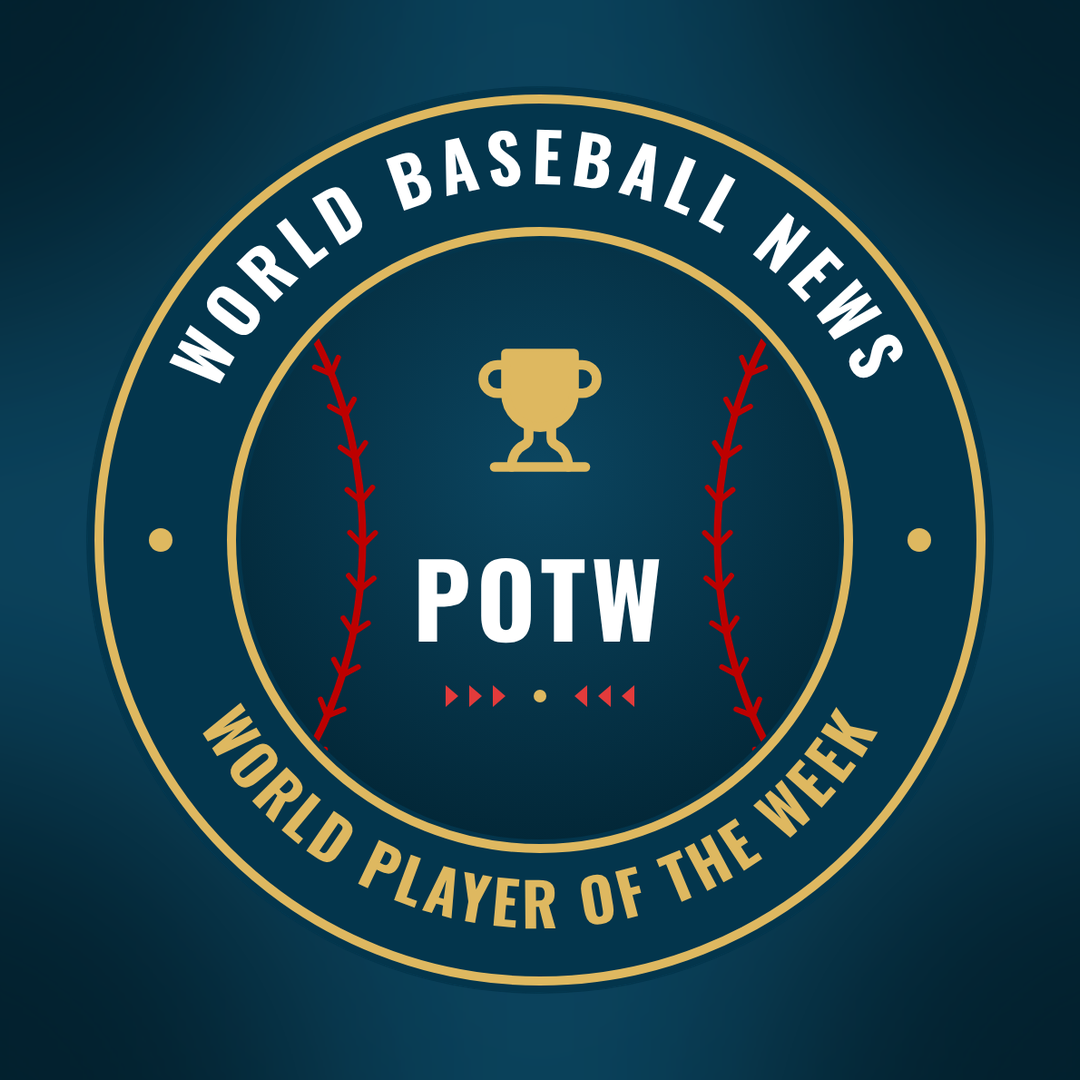
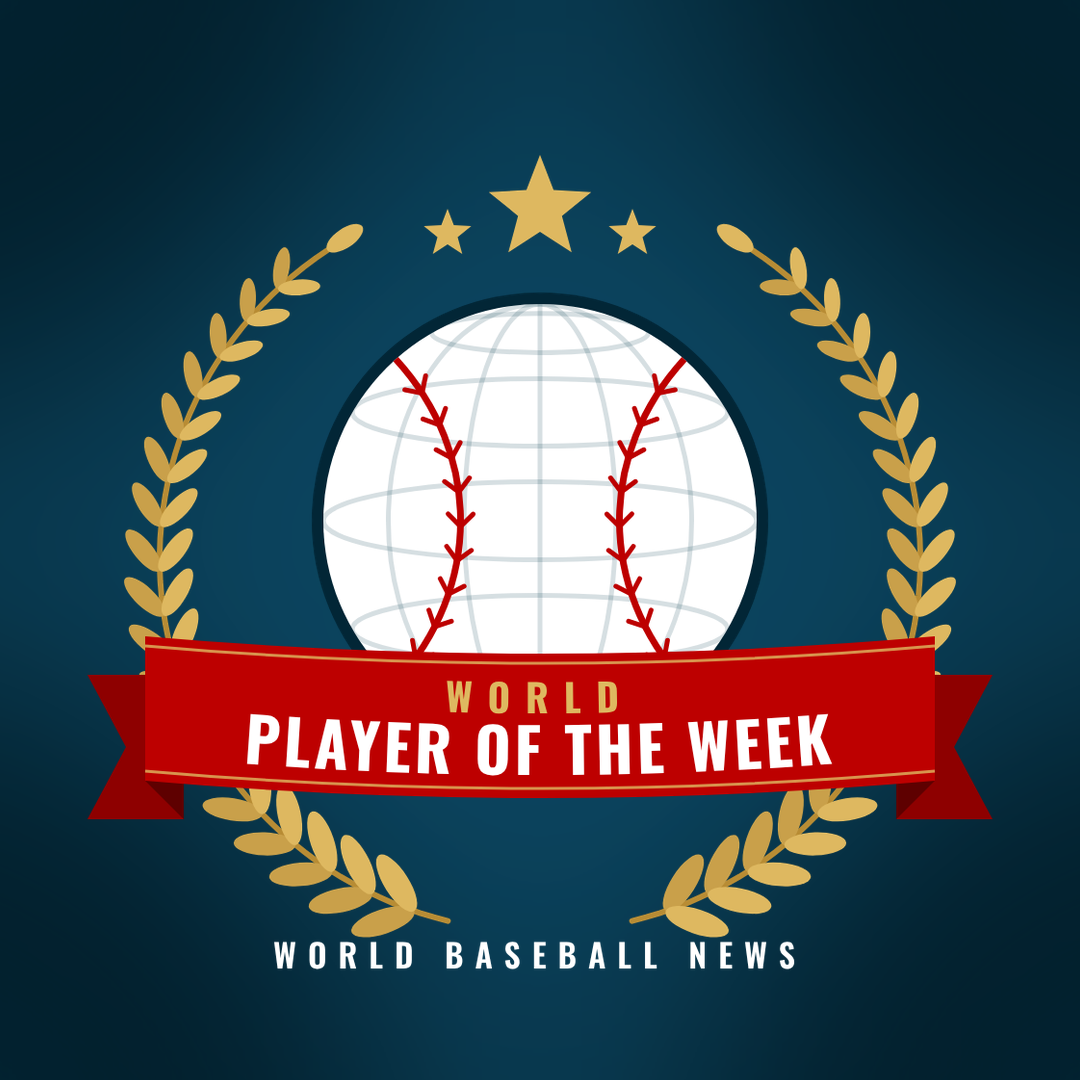
New World Player of the Week crest
Claude-Session: https://claude.ai/code/session_0111PksJtu2uhZc8WfmyU5jp

diff --git a/assets/highlights/potw-logo.html b/assets/highlights/potw-logo.html
@@ -1,39 +1,97 @@
 <!DOCTYPE html><html><head><meta charset="utf-8"><style>
 @font-face{font-family:Oswald;font-weight:700;src:url(../../fonts/oswald-700.ttf)}
 @font-face{font-family:Oswald;font-weight:600;src:url(../../fonts/oswald-600.ttf)}
-@font-face{font-family:Figtree;font-weight:800;src:url(../../fonts/figtree-800.ttf)}
-body{margin:0;background:transparent}
-</style></head><body>
-<svg id="logo" xmlns="http://www.w3.org/2000/svg" width="1080" height="1080" viewBox="0 0 1080 1080">
-  <defs>
-    <radialGradient id="bg" cx="50%" cy="38%" r="65%"><stop offset="0" stop-color="#0B4560"/><stop offset="1" stop-color="#022636"/></radialGradient>
-    <path id="top" d="M 540,540 m -392,0 a 392,392 0 1,1 784,0"/>
-    <path id="bottom" d="M 540,540 m -428,0 a 428,428 0 0,0 856,0"/>
-    <clipPath id="disc"><circle cx="540" cy="540" r="330"/></clipPath>
-  </defs>
-  <!-- outer ring -->
-  <circle cx="540" cy="540" r="500" fill="#03354C"/>
-  <circle cx="540" cy="540" r="486" fill="none" stroke="#DEB860" stroke-width="10"/>
-  <circle cx="540" cy="540" r="340" fill="none" stroke="#DEB860" stroke-width="10"/>
-  <text font-family="Oswald" font-weight="700" font-size="74" letter-spacing="9" fill="#FFFFFF">
-    <textPath href="#top" startOffset="50%" text-anchor="middle">WORLD BASEBALL NEWS</textPath></text>
-  <text font-family="Oswald" font-weight="700" font-size="66" letter-spacing="6" fill="#DEB860">
-    <textPath href="#bottom" startOffset="50%" text-anchor="middle">WORLD PLAYER OF THE WEEK</textPath></text>
-  <circle cx="122" cy="540" r="13" fill="#DEB860"/><circle cx="958" cy="540" r="13" fill="#DEB860"/>
-  <!-- inner disc: a baseball with red stitched seams -->
-  <circle cx="540" cy="540" r="330" fill="url(#bg)"/>
-  <g clip-path="url(#disc)" fill="none" stroke="#BD0000" stroke-linecap="round" stroke-linejoin="round">
-    <path d="M 262,270 C 372,420 372,660 262,810" stroke-width="8"/><path d="M 818,270 C 708,420 708,660 818,810" stroke-width="8"/>
-    <path d="M 295.6,295.5 L 290.1,314.5 L 271.1,309.0 M 317.7,338.9 L 310.1,357.2 L 291.8,349.6 M 335.1,385.0 L 325.6,402.3 L 308.2,392.8 M 347.6,432.9 L 336.4,449.2 L 320.1,438.0 M 355.4,482.1 L 342.7,497.3 L 327.6,484.6 M 358.5,532.1 L 344.5,546.0 L 330.5,531.9 M 356.9,582.1 L 341.6,594.6 L 329.1,579.3 M 350.6,631.6 L 334.2,642.6 L 323.2,626.1 M 339.6,679.9 L 322.1,689.2 L 312.8,671.7 M 323.8,726.5 L 305.5,733.9 L 298.1,715.5 M 303.3,770.7 L 284.2,775.9 L 279.0,756.9" stroke-width="6"/><path d="M 808.9,309.0 L 789.9,314.5 L 784.4,295.5 M 788.2,349.6 L 769.9,357.2 L 762.3,338.9 M 771.8,392.8 L 754.4,402.3 L 744.9,385.0 M 759.9,438.0 L 743.6,449.2 L 732.4,432.9 M 752.4,484.6 L 737.3,497.3 L 724.6,482.1 M 749.5,531.9 L 735.5,546.0 L 721.5,532.1 M 750.9,579.3 L 738.4,594.6 L 723.1,582.1 M 756.8,626.1 L 745.8,642.6 L 729.4,631.6 M 767.2,671.7 L 757.9,689.2 L 740.4,679.9 M 781.9,715.5 L 774.5,733.9 L 756.2,726.5 M 801.0,756.9 L 795.8,775.9 L 776.7,770.7" stroke-width="6"/>
-  </g>
-  <!-- centre: gold trophy + wordmark -->
-  <g transform="translate(465,322) scale(6.25)" fill="none" stroke="#DEB860" stroke-width="1.7" stroke-linecap="round" stroke-linejoin="round">
-    <path d="M18 2H6v7a6 6 0 0 0 12 0V2Z" fill="#DEB860"/><path d="M6 9H4.5a2.5 2.5 0 0 1 0-5H6"/><path d="M18 9h1.5a2.5 2.5 0 0 0 0-5H18"/><path d="M4 22h16"/><path d="M10 14.66V17c0 .55-.47.98-.97 1.21C7.85 18.75 7 20.24 7 22"/><path d="M14 14.66V17c0 .55.47.98.97 1.21C16.15 18.75 17 20.24 17 22"/>
-  </g>
-  <text x="540" y="652" text-anchor="middle" font-family="Oswald" font-weight="700" font-size="112" letter-spacing="6" fill="#FFFFFF">POTW</text>
-  <g fill="#E23B3B">
-    <path d="M 436,700 l 14,12 -14,12 z M 462,700 l 14,12 -14,12 z M 488,700 l 14,12 -14,12 z"/>
-    <path d="M 644,700 l -14,12 14,12 z M 618,700 l -14,12 14,12 z M 592,700 l -14,12 14,12 z"/>
-  </g>
-  <circle cx="540" cy="712" r="7" fill="#DEB860"/>
+body{margin:0;background:transparent}</style></head><body><svg id="logo" xmlns="http://www.w3.org/2000/svg" width="1080" height="1080" viewBox="0 0 1080 1080">
+<polyline points="635.6,935.6 650.2,931.7 664.7,927.3 679.0,922.3 693.1,916.9 706.9,910.8 720.6,904.3 733.9,897.2 747.0,889.7 759.7,881.7 772.2,873.2 784.3,864.2 796.0,854.8 807.4,844.9 818.3,834.7 828.9,824.0 839.0,812.9 848.7,801.5 857.9,789.7 866.7,777.6 875.0,765.1 882.8,752.4 890.1,739.3 896.8,726.0 903.1,712.5 908.8,698.7 913.9,684.7 918.5,670.6 922.6,656.3 926.1,641.8 929.0,627.2 931.3,612.5 933.1,597.8 934.3,583.0 934.9,568.1 934.9,553.2 934.4,538.4 933.2,523.6 931.5,508.8 929.2,494.1 926.4,479.5 922.9,465.0 918.9,450.7 914.4,436.5 909.3,422.5 903.6,408.7 897.4,395.2 890.7,381.9 883.5,368.8 875.7,356.0 867.5,343.5 858.7,331.4 849.6,319.6 839.9,308.1 829.8,297.0 819.3,286.3 808.4,276.0 797.1,266.1 785.4,256.6 773.3,247.6 760.9,239.1" fill="none" stroke="#B88C34" stroke-width="6" stroke-linecap="round"/>
+<ellipse cx="688.9" cy="896.3" rx="34.4" ry="12.8" transform="rotate(-57.6 688.9 896.3)" fill="#C9A04A"/>
+<ellipse cx="703.1" cy="936.3" rx="34.4" ry="12.8" transform="rotate(18.4 703.1 936.3)" fill="#DEB860"/>
+<ellipse cx="728.8" cy="877.0" rx="33.7" ry="12.5" transform="rotate(-64.4 728.8 877.0)" fill="#C9A04A"/>
+<ellipse cx="747.2" cy="914.2" rx="33.7" ry="12.5" transform="rotate(11.6 747.2 914.2)" fill="#DEB860"/>
+<ellipse cx="766.1" cy="853.2" rx="33.0" ry="12.2" transform="rotate(-71.2 766.1 853.2)" fill="#C9A04A"/>
+<ellipse cx="788.4" cy="887.2" rx="33.0" ry="12.2" transform="rotate(4.8 788.4 887.2)" fill="#DEB860"/>
+<ellipse cx="800.4" cy="825.2" rx="32.2" ry="12.0" transform="rotate(-78.0 800.4 825.2)" fill="#C9A04A"/>
+<ellipse cx="825.9" cy="855.6" rx="32.2" ry="12.0" transform="rotate(-2.0 825.9 855.6)" fill="#DEB860"/>
+<ellipse cx="831.0" cy="793.3" rx="31.5" ry="11.7" transform="rotate(-84.9 831.0 793.3)" fill="#C9A04A"/>
+<ellipse cx="859.3" cy="819.8" rx="31.5" ry="11.7" transform="rotate(-8.9 859.3 819.8)" fill="#DEB860"/>
+<ellipse cx="857.5" cy="758.1" rx="30.8" ry="11.4" transform="rotate(-91.9 857.5 758.1)" fill="#C9A04A"/>
+<ellipse cx="888.1" cy="780.5" rx="30.8" ry="11.4" transform="rotate(-15.9 888.1 780.5)" fill="#DEB860"/>
+<ellipse cx="879.7" cy="720.1" rx="30.1" ry="11.2" transform="rotate(-98.8 879.7 720.1)" fill="#C9A04A"/>
+<ellipse cx="912.0" cy="738.1" rx="30.1" ry="11.2" transform="rotate(-22.8 912.0 738.1)" fill="#DEB860"/>
+<ellipse cx="897.0" cy="679.7" rx="29.3" ry="10.9" transform="rotate(-105.8 897.0 679.7)" fill="#C9A04A"/>
+<ellipse cx="930.5" cy="693.4" rx="29.3" ry="10.9" transform="rotate(-29.8 930.5 693.4)" fill="#DEB860"/>
+<ellipse cx="909.4" cy="637.6" rx="28.6" ry="10.6" transform="rotate(-112.8 909.4 637.6)" fill="#C9A04A"/>
+<ellipse cx="943.4" cy="646.8" rx="28.6" ry="10.6" transform="rotate(-36.8 943.4 646.8)" fill="#DEB860"/>
+<ellipse cx="916.6" cy="594.2" rx="27.9" ry="10.3" transform="rotate(-119.8 916.6 594.2)" fill="#C9A04A"/>
+<ellipse cx="950.6" cy="599.1" rx="27.9" ry="10.3" transform="rotate(-43.8 950.6 599.1)" fill="#DEB860"/>
+<ellipse cx="918.5" cy="550.4" rx="27.1" ry="10.1" transform="rotate(-126.9 918.5 550.4)" fill="#C9A04A"/>
+<ellipse cx="951.9" cy="551.0" rx="27.1" ry="10.1" transform="rotate(-50.9 951.9 551.0)" fill="#DEB860"/>
+<ellipse cx="915.1" cy="506.5" rx="26.4" ry="9.8" transform="rotate(-133.9 915.1 506.5)" fill="#C9A04A"/>
+<ellipse cx="947.5" cy="503.2" rx="26.4" ry="9.8" transform="rotate(-57.9 947.5 503.2)" fill="#DEB860"/>
+<ellipse cx="906.4" cy="463.3" rx="25.7" ry="9.5" transform="rotate(-140.9 906.4 463.3)" fill="#C9A04A"/>
+<ellipse cx="937.3" cy="456.3" rx="25.7" ry="9.5" transform="rotate(-64.9 937.3 456.3)" fill="#DEB860"/>
+<ellipse cx="892.6" cy="421.4" rx="24.9" ry="9.3" transform="rotate(-147.9 892.6 421.4)" fill="#C9A04A"/>
+<ellipse cx="921.5" cy="410.9" rx="24.9" ry="9.3" transform="rotate(-71.9 921.5 410.9)" fill="#DEB860"/>
+<ellipse cx="873.7" cy="381.3" rx="24.2" ry="9.0" transform="rotate(-154.9 873.7 381.3)" fill="#C9A04A"/>
+<ellipse cx="900.3" cy="367.9" rx="24.2" ry="9.0" transform="rotate(-78.9 900.3 367.9)" fill="#DEB860"/>
+<ellipse cx="850.2" cy="343.7" rx="23.5" ry="8.7" transform="rotate(-161.9 850.2 343.7)" fill="#C9A04A"/>
+<ellipse cx="874.2" cy="327.6" rx="23.5" ry="8.7" transform="rotate(-85.9 874.2 327.6)" fill="#DEB860"/>
+<ellipse cx="822.2" cy="309.0" rx="22.7" ry="8.4" transform="rotate(-168.8 822.2 309.0)" fill="#C9A04A"/>
+<ellipse cx="843.4" cy="290.7" rx="22.7" ry="8.4" transform="rotate(-92.8 843.4 290.7)" fill="#DEB860"/>
+<ellipse cx="790.1" cy="277.7" rx="22.0" ry="8.2" transform="rotate(-175.7 790.1 277.7)" fill="#C9A04A"/>
+<ellipse cx="808.4" cy="257.7" rx="22.0" ry="8.2" transform="rotate(-99.7 808.4 257.7)" fill="#DEB860"/>
+<ellipse cx="742.7" cy="226.7" rx="22.0" ry="10" transform="rotate(-145.9 742.7 226.7)" fill="#DEB860"/>
+<polyline points="444.4,935.6 429.8,931.7 415.3,927.3 401.0,922.3 386.9,916.9 373.1,910.8 359.4,904.3 346.1,897.2 333.0,889.7 320.3,881.7 307.8,873.2 295.7,864.2 284.0,854.8 272.6,844.9 261.7,834.7 251.1,824.0 241.0,812.9 231.3,801.5 222.1,789.7 213.3,777.6 205.0,765.1 197.2,752.4 189.9,739.3 183.2,726.0 176.9,712.5 171.2,698.7 166.1,684.7 161.5,670.6 157.4,656.3 153.9,641.8 151.0,627.2 148.7,612.5 146.9,597.8 145.7,583.0 145.1,568.1 145.1,553.2 145.6,538.4 146.8,523.6 148.5,508.8 150.8,494.1 153.6,479.5 157.1,465.0 161.1,450.7 165.6,436.5 170.7,422.5 176.4,408.7 182.6,395.2 189.3,381.9 196.5,368.8 204.3,356.0 212.5,343.5 221.3,331.4 230.4,319.6 240.1,308.1 250.2,297.0 260.7,286.3 271.6,276.0 282.9,266.1 294.6,256.6 306.7,247.6 319.1,239.1" fill="none" stroke="#B88C34" stroke-width="6" stroke-linecap="round"/>
+<ellipse cx="376.9" cy="936.3" rx="34.4" ry="12.8" transform="rotate(-198.4 376.9 936.3)" fill="#C9A04A"/>
+<ellipse cx="391.1" cy="896.3" rx="34.4" ry="12.8" transform="rotate(-122.4 391.1 896.3)" fill="#DEB860"/>
+<ellipse cx="332.8" cy="914.2" rx="33.7" ry="12.5" transform="rotate(-191.6 332.8 914.2)" fill="#C9A04A"/>
+<ellipse cx="351.2" cy="877.0" rx="33.7" ry="12.5" transform="rotate(-115.6 351.2 877.0)" fill="#DEB860"/>
+<ellipse cx="291.6" cy="887.2" rx="33.0" ry="12.2" transform="rotate(-184.8 291.6 887.2)" fill="#C9A04A"/>
+<ellipse cx="313.9" cy="853.2" rx="33.0" ry="12.2" transform="rotate(-108.8 313.9 853.2)" fill="#DEB860"/>
+<ellipse cx="254.1" cy="855.6" rx="32.2" ry="12.0" transform="rotate(-178.0 254.1 855.6)" fill="#C9A04A"/>
+<ellipse cx="279.6" cy="825.2" rx="32.2" ry="12.0" transform="rotate(-102.0 279.6 825.2)" fill="#DEB860"/>
+<ellipse cx="220.7" cy="819.8" rx="31.5" ry="11.7" transform="rotate(-171.1 220.7 819.8)" fill="#C9A04A"/>
+<ellipse cx="249.0" cy="793.3" rx="31.5" ry="11.7" transform="rotate(-95.1 249.0 793.3)" fill="#DEB860"/>
+<ellipse cx="191.9" cy="780.5" rx="30.8" ry="11.4" transform="rotate(-164.1 191.9 780.5)" fill="#C9A04A"/>
+<ellipse cx="222.5" cy="758.1" rx="30.8" ry="11.4" transform="rotate(-88.1 222.5 758.1)" fill="#DEB860"/>
+<ellipse cx="168.0" cy="738.1" rx="30.1" ry="11.2" transform="rotate(-157.2 168.0 738.1)" fill="#C9A04A"/>
+<ellipse cx="200.3" cy="720.1" rx="30.1" ry="11.2" transform="rotate(-81.2 200.3 720.1)" fill="#DEB860"/>
+<ellipse cx="149.5" cy="693.4" rx="29.3" ry="10.9" transform="rotate(-150.2 149.5 693.4)" fill="#C9A04A"/>
+<ellipse cx="183.0" cy="679.7" rx="29.3" ry="10.9" transform="rotate(-74.2 183.0 679.7)" fill="#DEB860"/>
+<ellipse cx="136.6" cy="646.8" rx="28.6" ry="10.6" transform="rotate(-143.2 136.6 646.8)" fill="#C9A04A"/>
+<ellipse cx="170.6" cy="637.6" rx="28.6" ry="10.6" transform="rotate(-67.2 170.6 637.6)" fill="#DEB860"/>
+<ellipse cx="129.4" cy="599.1" rx="27.9" ry="10.3" transform="rotate(-136.2 129.4 599.1)" fill="#C9A04A"/>
+<ellipse cx="163.4" cy="594.2" rx="27.9" ry="10.3" transform="rotate(-60.2 163.4 594.2)" fill="#DEB860"/>
+<ellipse cx="128.1" cy="551.0" rx="27.1" ry="10.1" transform="rotate(-129.1 128.1 551.0)" fill="#C9A04A"/>
+<ellipse cx="161.5" cy="550.4" rx="27.1" ry="10.1" transform="rotate(-53.1 161.5 550.4)" fill="#DEB860"/>
+<ellipse cx="132.5" cy="503.2" rx="26.4" ry="9.8" transform="rotate(-122.1 132.5 503.2)" fill="#C9A04A"/>
+<ellipse cx="164.9" cy="506.5" rx="26.4" ry="9.8" transform="rotate(-46.1 164.9 506.5)" fill="#DEB860"/>
+<ellipse cx="142.7" cy="456.3" rx="25.7" ry="9.5" transform="rotate(-115.1 142.7 456.3)" fill="#C9A04A"/>
+<ellipse cx="173.6" cy="463.3" rx="25.7" ry="9.5" transform="rotate(-39.1 173.6 463.3)" fill="#DEB860"/>
+<ellipse cx="158.5" cy="410.9" rx="24.9" ry="9.3" transform="rotate(-108.1 158.5 410.9)" fill="#C9A04A"/>
+<ellipse cx="187.4" cy="421.4" rx="24.9" ry="9.3" transform="rotate(-32.1 187.4 421.4)" fill="#DEB860"/>
+<ellipse cx="179.7" cy="367.9" rx="24.2" ry="9.0" transform="rotate(-101.1 179.7 367.9)" fill="#C9A04A"/>
+<ellipse cx="206.3" cy="381.3" rx="24.2" ry="9.0" transform="rotate(-25.1 206.3 381.3)" fill="#DEB860"/>
+<ellipse cx="205.8" cy="327.6" rx="23.5" ry="8.7" transform="rotate(-94.1 205.8 327.6)" fill="#C9A04A"/>
+<ellipse cx="229.8" cy="343.7" rx="23.5" ry="8.7" transform="rotate(-18.1 229.8 343.7)" fill="#DEB860"/>
+<ellipse cx="236.6" cy="290.7" rx="22.7" ry="8.4" transform="rotate(-87.2 236.6 290.7)" fill="#C9A04A"/>
+<ellipse cx="257.8" cy="309.0" rx="22.7" ry="8.4" transform="rotate(-11.2 257.8 309.0)" fill="#DEB860"/>
+<ellipse cx="271.6" cy="257.7" rx="22.0" ry="8.2" transform="rotate(-80.3 271.6 257.7)" fill="#C9A04A"/>
+<ellipse cx="289.9" cy="277.7" rx="22.0" ry="8.2" transform="rotate(-4.3 289.9 277.7)" fill="#DEB860"/>
+<ellipse cx="337.3" cy="226.7" rx="22.0" ry="10" transform="rotate(-34.1 337.3 226.7)" fill="#DEB860"/>
+<circle cx="540" cy="520" r="237" fill="#022636"/><circle cx="540" cy="520" r="225" fill="#FFFFFF"/><clipPath id="bc"><circle cx="540" cy="520" r="225"/></clipPath><g clip-path="url(#bc)" fill="none" stroke="#03354C" stroke-opacity=".16" stroke-width="5"><ellipse cx="540" cy="325.1" rx="112.5" ry="20.3"/><ellipse cx="540" cy="407.5" rx="194.9" ry="35.1"/><ellipse cx="540" cy="520.0" rx="225.0" ry="40.5"/><ellipse cx="540" cy="632.5" rx="194.9" ry="35.1"/><ellipse cx="540" cy="714.9" rx="112.5" ry="20.3"/><ellipse cx="540" cy="520" rx="78.8" ry="225"/><ellipse cx="540" cy="520" rx="157.5" ry="225"/><line x1="540" y1="295" x2="540" y2="745"/></g><g clip-path="url(#bc)" fill="none" stroke="#BD0000" stroke-linecap="round" stroke-linejoin="round"><path d="M 390,352 C 480,450 480,590 390,688" stroke-width="7"/><path d="M 421.2,369.5 L 417.6,387.6 L 399.6,384.0" stroke-width="5"/><path d="M 441.9,403.3 L 435.8,420.6 L 418.5,414.4" stroke-width="5"/><path d="M 457.1,438.8 L 448.4,455.0 L 432.2,446.3" stroke-width="5"/><path d="M 466.7,475.6 L 455.7,490.3 L 440.9,479.3" stroke-width="5"/><path d="M 470.6,513.1 L 457.5,526.0 L 444.6,512.9" stroke-width="5"/><path d="M 468.7,550.8 L 453.9,561.5 L 443.1,546.6" stroke-width="5"/><path d="M 461.2,588.0 L 444.9,596.4 L 436.4,580.1" stroke-width="5"/><path d="M 448.0,624.3 L 430.5,630.2 L 424.6,612.8" stroke-width="5"/><path d="M 429.0,659.1 L 410.9,662.4 L 407.6,644.3" stroke-width="5"/><path d="M 690,352 C 600,450 600,590 690,688" stroke-width="7"/><path d="M 680.4,384.0 L 662.4,387.6 L 658.8,369.5" stroke-width="5"/><path d="M 661.5,414.4 L 644.2,420.6 L 638.1,403.3" stroke-width="5"/><path d="M 647.8,446.3 L 631.6,455.0 L 622.9,438.8" stroke-width="5"/><path d="M 639.1,479.3 L 624.3,490.3 L 613.3,475.6" stroke-width="5"/><path d="M 635.4,512.9 L 622.5,526.0 L 609.4,513.1" stroke-width="5"/><path d="M 636.9,546.6 L 626.1,561.5 L 611.3,550.8" stroke-width="5"/><path d="M 643.6,580.1 L 635.1,596.4 L 618.8,588.0" stroke-width="5"/><path d="M 655.4,612.8 L 649.5,630.2 L 632.0,624.3" stroke-width="5"/><path d="M 672.4,644.3 L 669.1,662.4 L 651.0,659.1" stroke-width="5"/></g>
+<polygon points="540.0,140.0 554.1,176.6 593.3,178.7 562.8,203.4 572.9,241.3 540.0,220.0 507.1,241.3 517.2,203.4 486.7,178.7 525.9,176.6" fill="#DEB860"/><polygon points="444.0,196.0 450.5,213.1 468.7,214.0 454.5,225.4 459.3,243.0 444.0,233.0 428.7,243.0 433.5,225.4 419.3,214.0 437.5,213.1" fill="#DEB860"/><polygon points="636.0,196.0 642.5,213.1 660.7,214.0 646.5,225.4 651.3,243.0 636.0,233.0 620.7,243.0 625.5,225.4 611.3,214.0 629.5,213.1" fill="#DEB860"/>
+
+<polygon points="70,680 170,680 170,830 70,830 110,755.0" fill="#8E0000"/>
+<polygon points="1010,680 910,680 910,830 1010,830 970,755.0" fill="#8E0000"/>
+<polygon points="170,790 170,830 130,790" fill="#5E0000"/>
+<polygon points="910,790 910,830 950,790" fill="#5E0000"/>
+<path d="M 130,640 Q 540,676 950,640 L 950,790 Q 540,826 130,790 Z" fill="#BD0000"/>
+<path d="M 130,650 Q 540,686 950,650" fill="none" stroke="#DEB860" stroke-width="3" stroke-opacity=".8"/>
+<path d="M 130,780 Q 540,816 950,780" fill="none" stroke="#DEB860" stroke-width="3" stroke-opacity=".8"/>
+<path id="rib1" d="M 160,702 Q 540,738 920,702" fill="none"/>
+<path id="rib2" d="M 160,766 Q 540,802 920,766" fill="none"/>
+<text font-family="Oswald" font-weight="700" font-size="40" letter-spacing="16" fill="#DEB860"><textPath href="#rib1" startOffset="50%" text-anchor="middle">WORLD</textPath></text>
+<text font-family="Oswald" font-weight="700" font-size="64" letter-spacing="4" fill="#FFFFFF"><textPath href="#rib2" startOffset="50%" text-anchor="middle">PLAYER OF THE WEEK</textPath></text>
+
+<text x="540" y="985" text-anchor="middle" font-family="Oswald" font-weight="600" font-size="34" letter-spacing="12" fill="#FFFFFF">WORLD BASEBALL NEWS</text>
 </svg></body></html>
